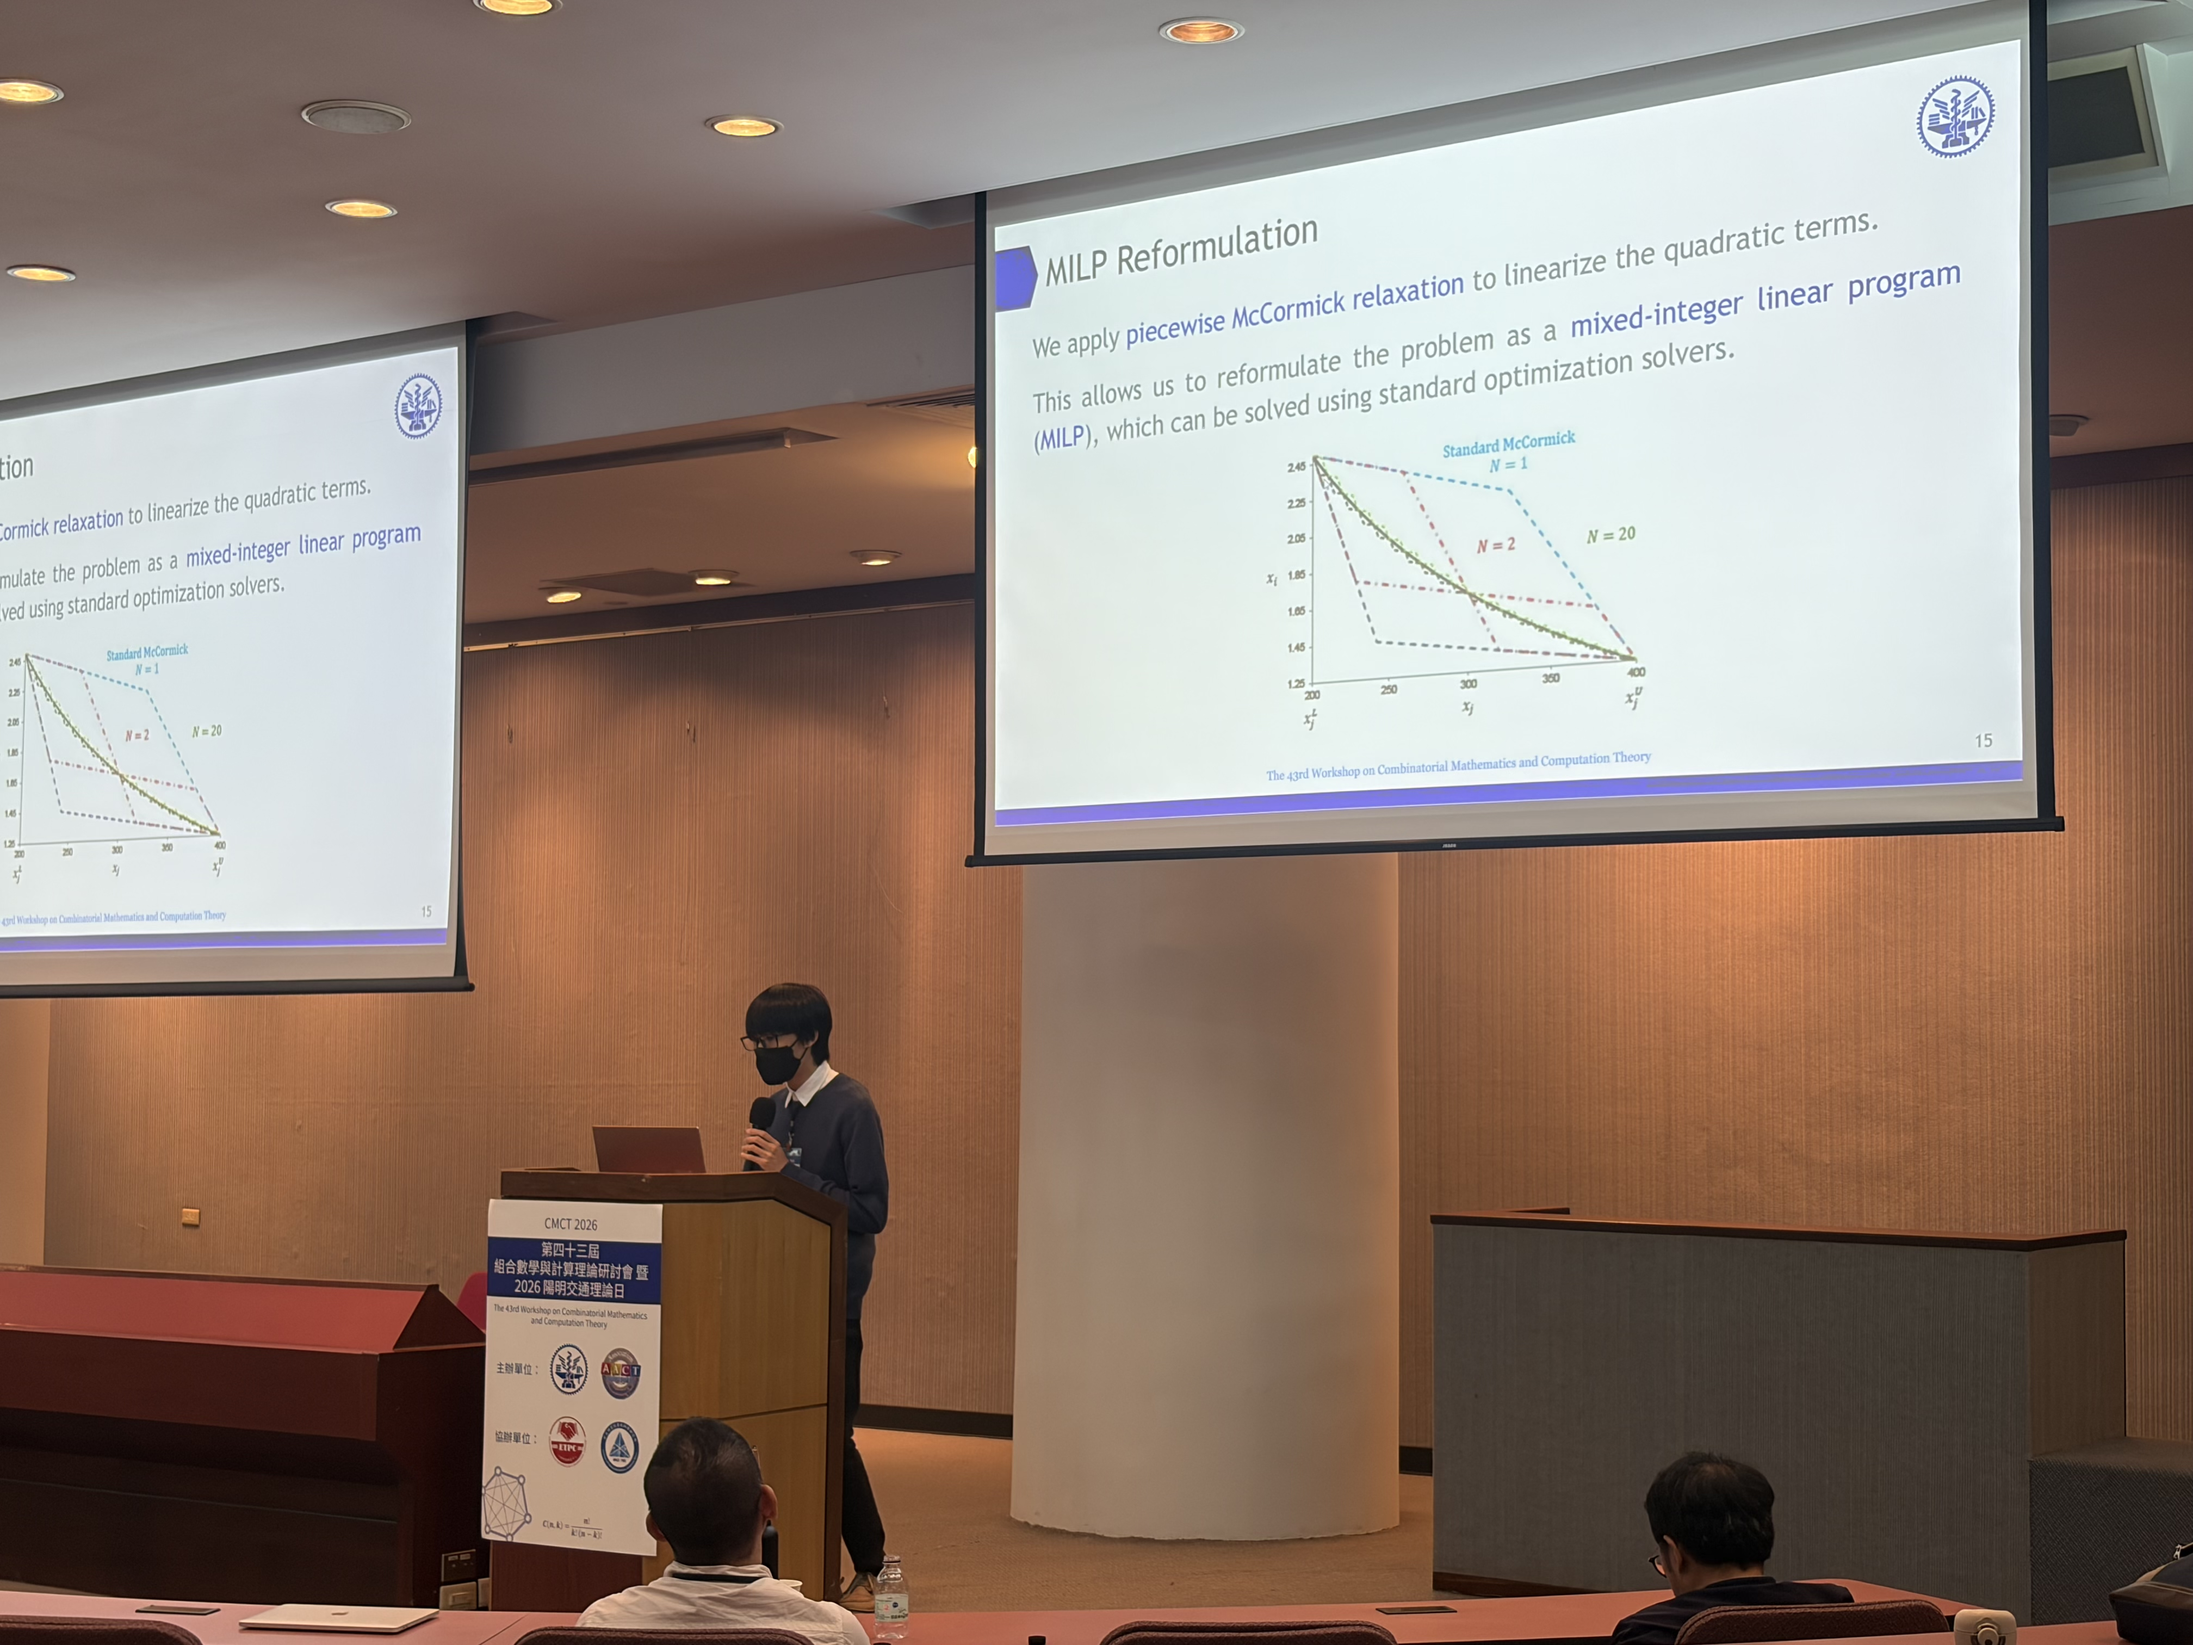
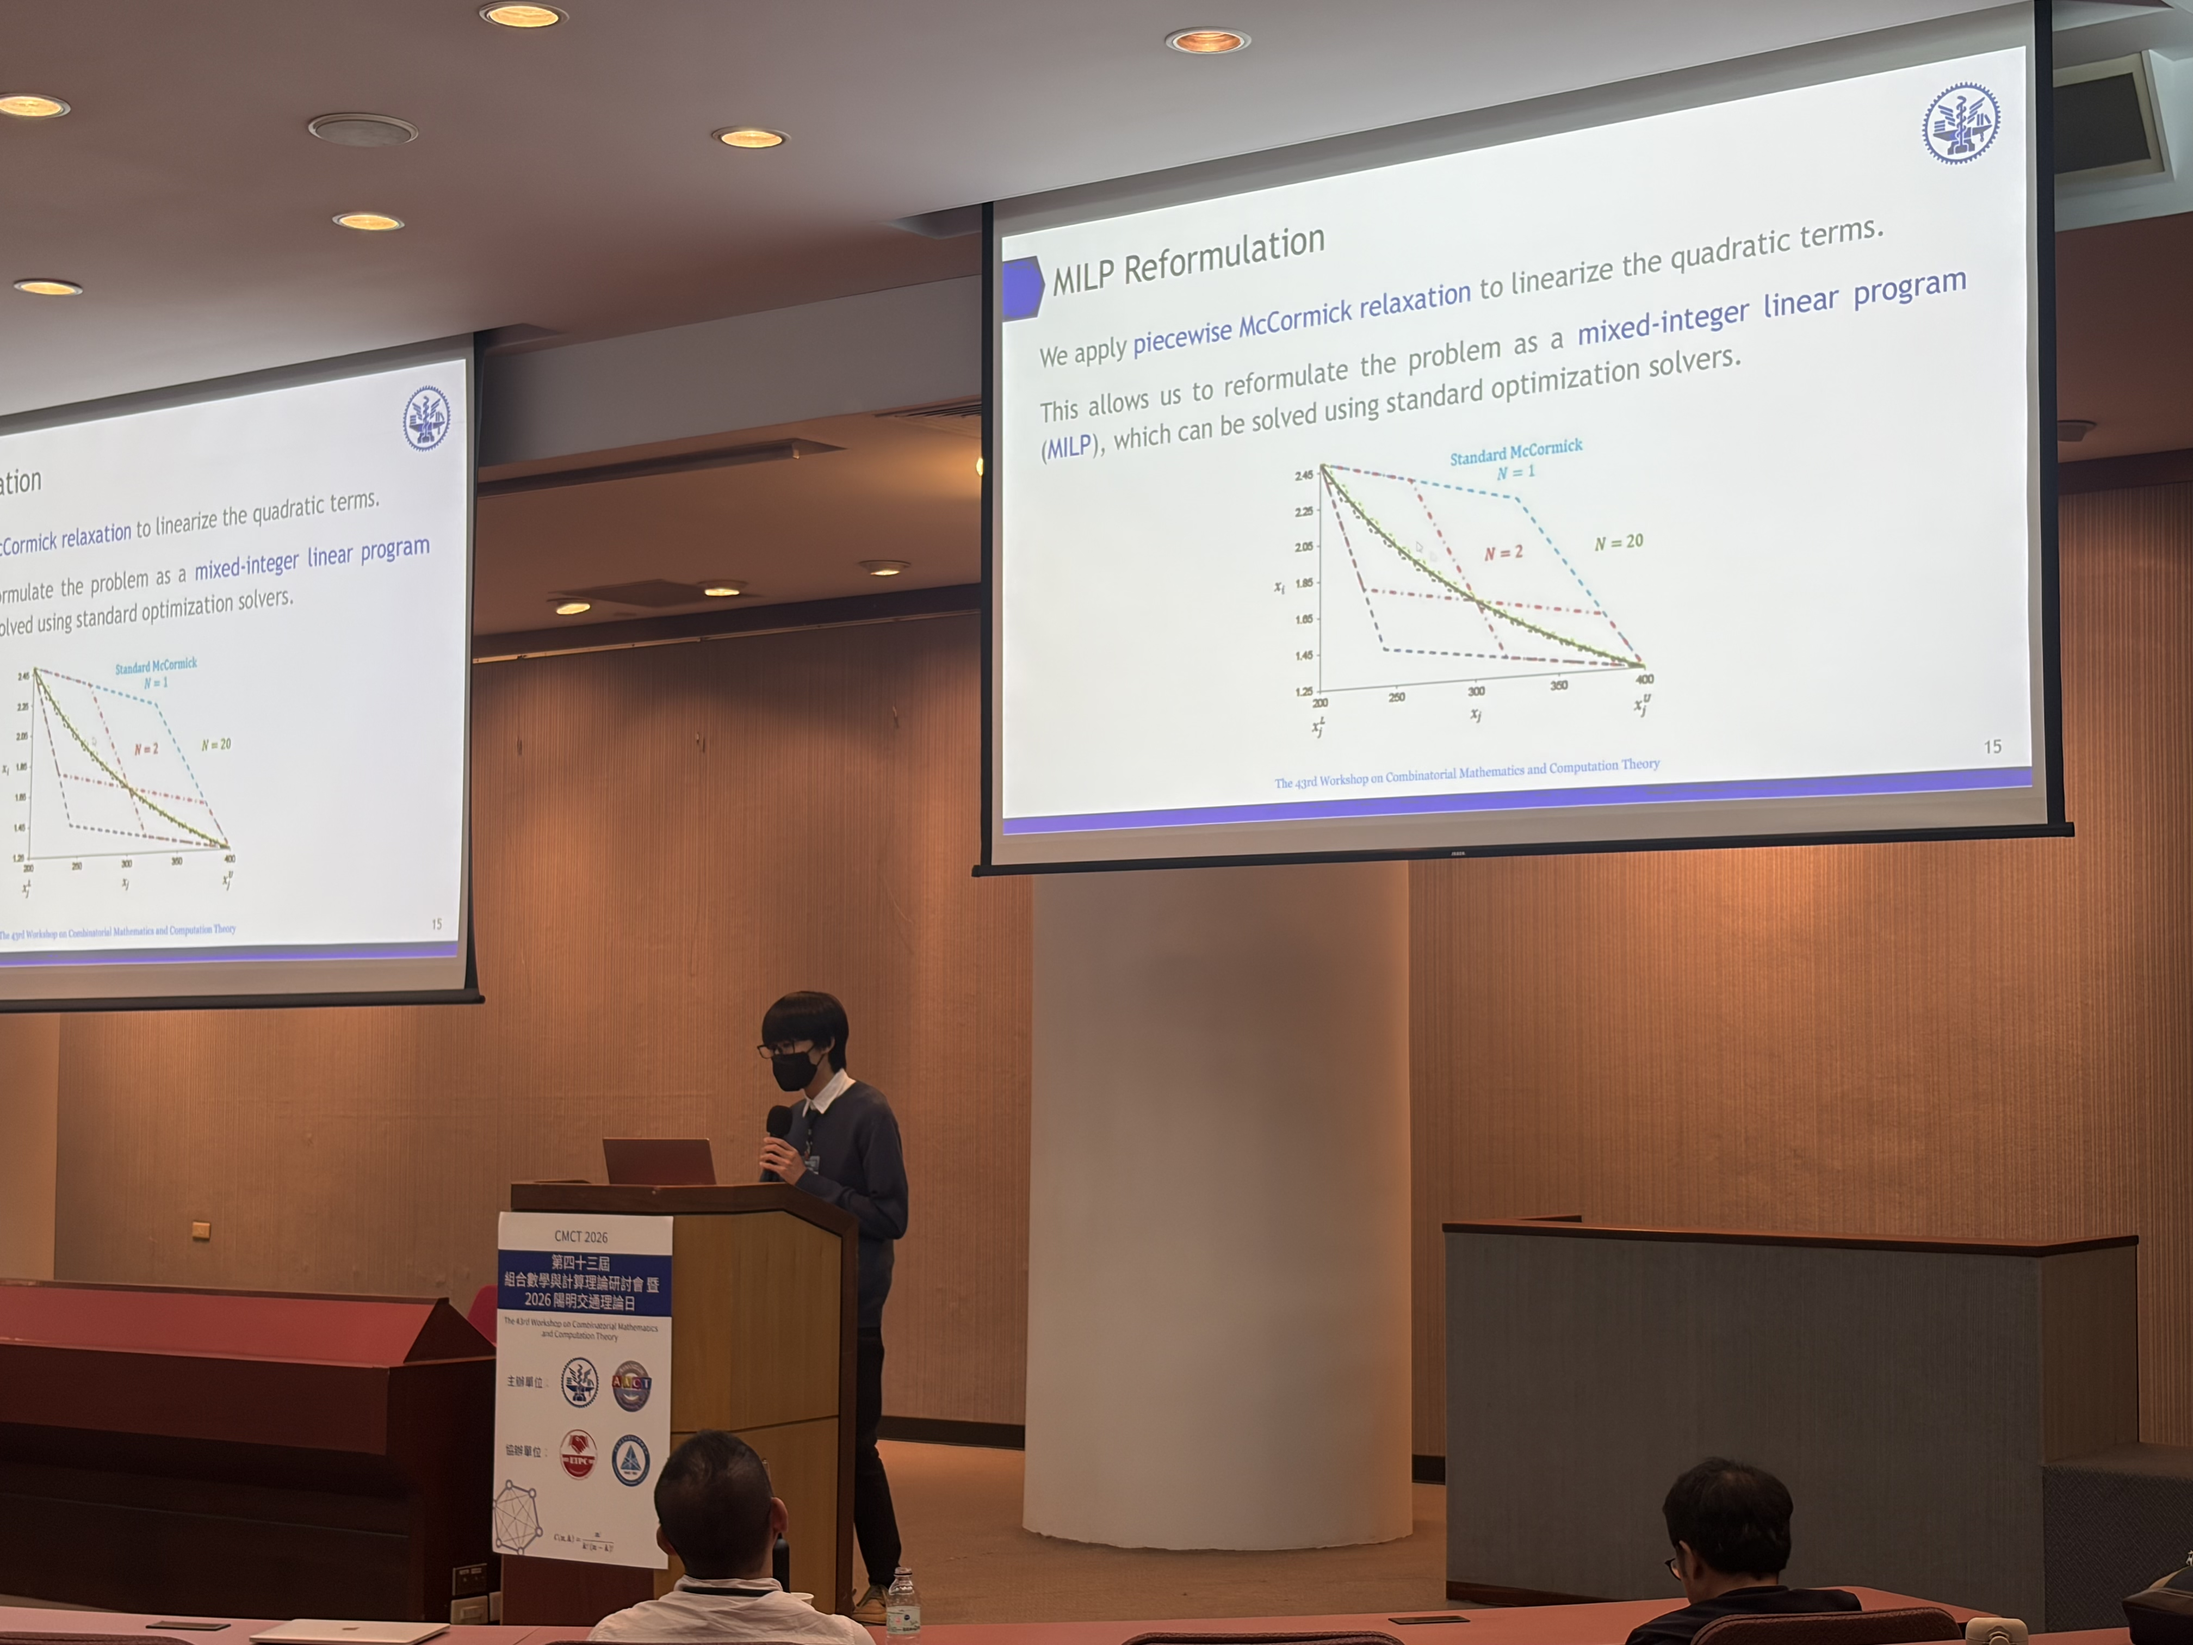
Switch Zhan-Yi gallery event to PhotoSwipe lightbox; expand to 5 chronological photos
Photo grid now uses PhotoSwipe (al-folio built-in) instead of medium-zoom.
Click opens a fullscreen overlay; press Esc, click outside, or click the X
button to close — staying on the same tab. Each anchor carries explicit
data-pswp-width / data-pswp-height attributes so the overlay shows the
photo at native pixel size with its original aspect ratio preserved (no
cover-crop distortion that medium-zoom inherited from the thumbnail).

Photo set expanded from 3 to 5, in chronological IMG order:
  01: IMG_5614 — wide-angle auditorium
  02: IMG_5615 — Zhan-Yi at podium presenting (McCormick burst #1)
  03: IMG_5616 — Zhan-Yi at podium presenting (McCormick burst #2)
  04: IMG_5618 — chair handing trophy to Zhan-Yi
  05: IMG_5640 — three winners group photo with trophies

Thumbnails remain at uniform 240px height via wrapper overflow + object-fit
cover, but the underlying <img> retains natural dimensions so the overlay
never sees the crop.

diff --git a/_gallery_events/zhanyi-2025-cmct.md b/_gallery_events/zhanyi-2025-cmct.md
@@ -7,6 +7,8 @@ tags: [zhan-yi-liao, thesis-award, cmct-2026, nycu]
 description: "Zhan-Yi Liao (M.S., NYCU; co-advised with Po-An Chen) recognized by the Algorithms and Computation Theory Society of Taiwan, presented at CMCT 2026."
 img: assets/img/gallery/zhanyi-2025-cmct/02.jpg
 importance: 1
+images:
+  photoswipe: true
 ---
 
 **Awardee.** Zhan-Yi Liao (M.S., Institute of Information Management, National Yang Ming Chiao Tung University; co-advised with <a href="https://iim.nycu.edu.tw/en/teacher/chen-po-an" target="_blank">Po-An Chen</a>).
@@ -23,26 +25,52 @@ importance: 1
 {% assign event_photos = event_photos_jpg | concat: event_photos_jpeg | concat: event_photos_png | sort: "path" %}
 
 <style>
-  .gallery-event-grid figure { margin: 0; height: 100%; }
-  .gallery-event-grid figure img,
-  .gallery-event-grid figure picture img {
-    width: 100%;
+  /* Thumbnails crop via overflow on the wrapper. Click opens the original
+     in a PhotoSwipe overlay (X, Esc, or outside-click to close). The full
+     image is fetched at native resolution with aspect ratio preserved. */
+  .gallery-event-thumb {
+    display: block;
     height: 240px;
+    overflow: hidden;
+    border-radius: 8px;
+    transition: transform 0.2s ease, box-shadow 0.2s ease;
+    cursor: zoom-in;
+  }
+  .gallery-event-thumb:hover {
+    transform: translateY(-2px);
+    box-shadow: 0 8px 24px rgba(0, 0, 0, 0.15);
+  }
+  .gallery-event-thumb img {
+    width: 100%;
+    height: 100%;
     object-fit: cover;
     display: block;
   }
 </style>
 
+{% comment %}Map filename to natural pixel dimensions for PhotoSwipe.{% endcomment %}
+{% assign dims = "" | split: "" %}
+{% assign dims = dims | push: "01.jpg|5712|4284" | push: "02.jpg|4032|3024" | push: "03.jpg|4032|3024" | push: "04.jpg|4032|3024" | push: "05.jpg|1108|1477" %}
+
 {% if event_photos.size > 0 %}
-<div class="row mt-4 gallery-event-grid">
+<div class="row mt-4 pswp-gallery" id="pswp-zhanyi">
 {% for photo in event_photos %}
+    {% assign w = 0 %}{% assign h = 0 %}
+    {% for d in dims %}
+        {% assign parts = d | split: "|" %}
+        {% if photo.name == parts[0] %}
+            {% assign w = parts[1] %}{% assign h = parts[2] %}
+        {% endif %}
+    {% endfor %}
     <div class="col-sm-4 mt-3 mt-md-0">
-        {% include figure.liquid path=photo.path title="2025 Best Master's Thesis Award: Zhan-Yi Liao" class="img-fluid rounded z-depth-1" zoomable=true %}
+        <a href="{{ photo.path | relative_url }}" data-pswp-width="{{ w }}" data-pswp-height="{{ h }}" target="_blank" rel="noopener" class="gallery-event-thumb">
+            <img src="{{ photo.path | relative_url }}" alt="2025 Best Master's Thesis Award: Zhan-Yi Liao" loading="lazy">
+        </a>
     </div>
 {% endfor %}
 </div>
 <div class="caption">
-    From the CMCT 2026 award ceremony. Click any photo to enlarge.
+    From the CMCT 2026 award ceremony. Click any photo to enlarge; press <kbd>Esc</kbd> or click outside to close.
 </div>
 {% endif %}
 
